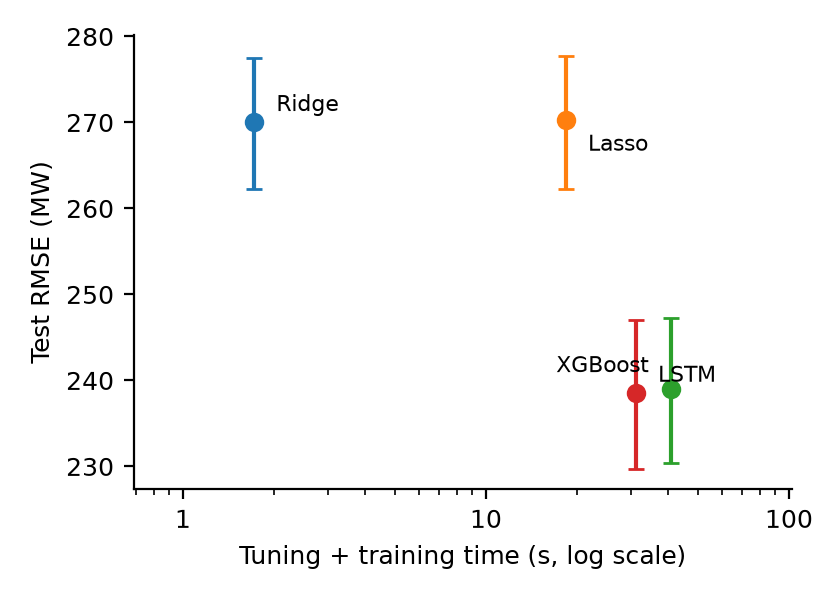
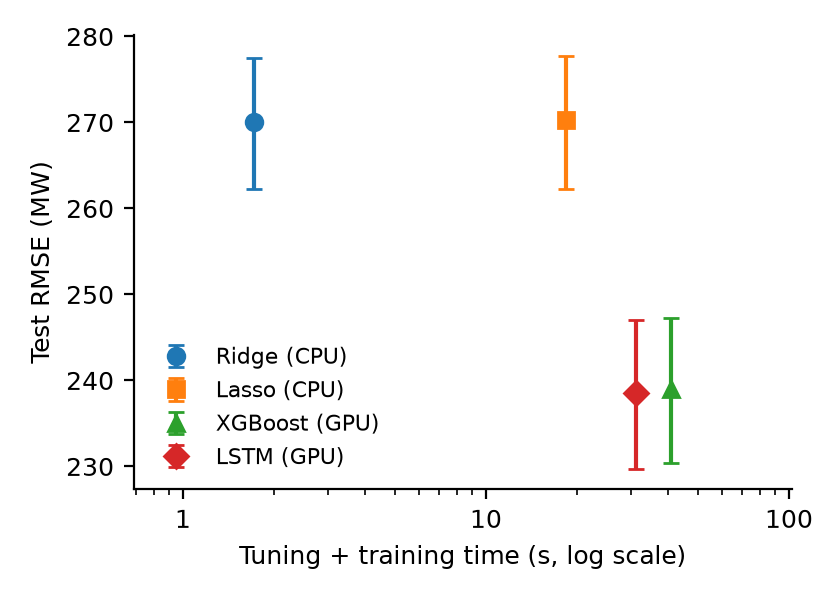
Fix swapped XGBoost/LSTM labels in accuracy-vs-cost figure (use a legend)

diff --git a/src/visualization/make_report_figures.py b/src/visualization/make_report_figures.py
@@ -74,14 +74,16 @@ save(fig, "fig1_progressive_inputs")
 # Accuracy vs computational cost (full inputs, forecast weather)
 full = fc[fc["Set"] == FULL]
 fig, ax = plt.subplots(figsize=(4.2, 3.0))
-label_pos = {"Ridge": (8, 4), "Lasso": (8, -11), "XGBoost": (-8, 6), "LSTM": (8, 4)}
 for _, r in full.iterrows():
+    dev = f" ({str(r['Device']).upper()})" if "Device" in full and r.get("Device") in ("cpu", "cuda") else ""
+    dev = dev.replace("CUDA", "GPU")
     ax.errorbar(r["Tune_s"], r["RMSE"],
                 yerr=[[r["RMSE"] - r["RMSE_CI_low"]], [r["RMSE_CI_high"] - r["RMSE"]]],
-                fmt="o", ms=6, capsize=3, color=COLORS[r["Model"]])
-    dx, dy = label_pos.get(r["Model"], (8, 4))
-    ax.annotate(r["Model"], (r["Tune_s"], r["RMSE"]), textcoords="offset points",
-                xytext=(dx, dy), fontsize=8, ha="left" if dx > 0 else "right")
+                fmt=MARKERS.get(r["Model"], "o"), ms=6, capsize=3, color=COLORS[r["Model"]],
+                label=f"{r['Model']}{dev}")
+# A legend instead of text labels: points that lie close together (e.g. XGBoost and
+# the LSTM on the GPU) would otherwise get each other's label.
+ax.legend(frameon=False, fontsize=8, loc="lower left")
 ax.set_xscale("log")
 ax.set_xlim(full["Tune_s"].min() / 2.5, full["Tune_s"].max() * 2.5)
 ax.xaxis.set_major_formatter(matplotlib.ticker.FuncFormatter(lambda v, _: f"{v:g}"))
